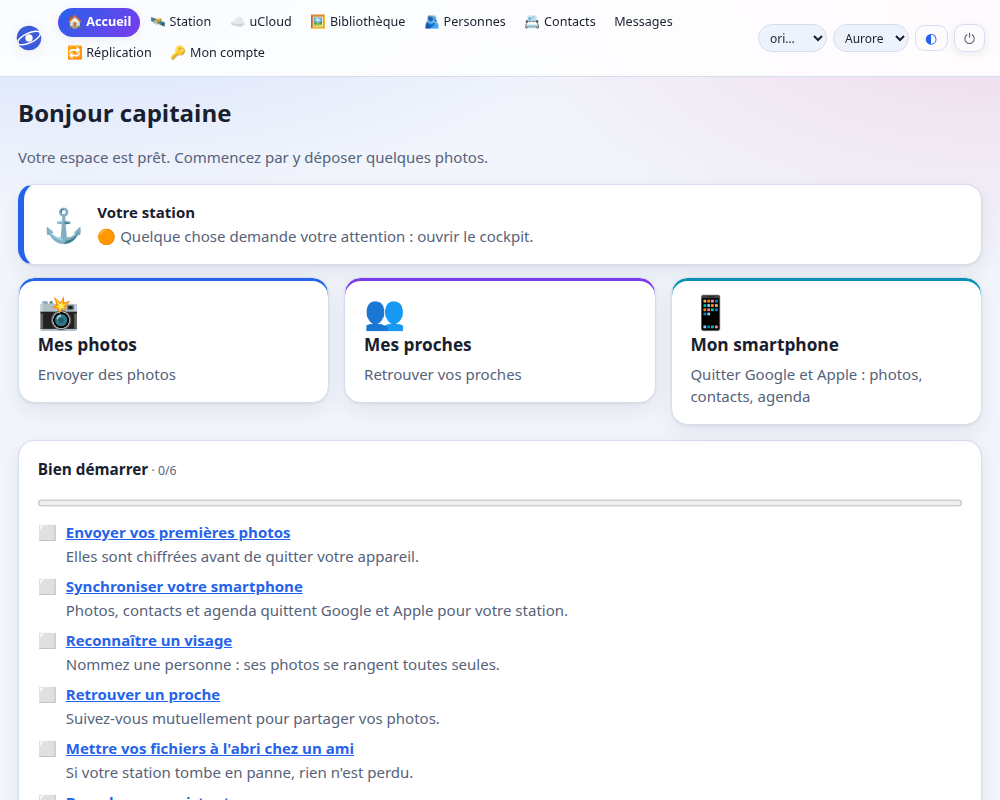
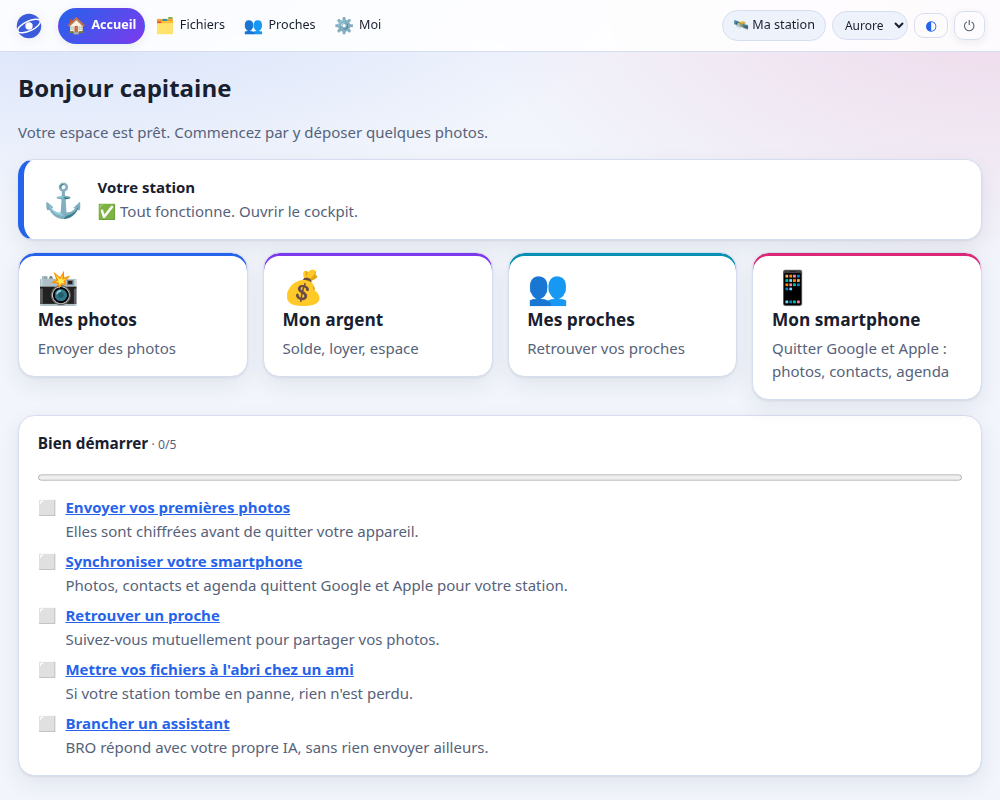
guide

diff --git a/docs/guide.html b/docs/guide.html
@@ -683,7 +683,7 @@ curl http://127.0.0.1:8090/health
 <li>L'<strong>Accueil</strong> vous propose d'envoyer vos premières photos, de <strong>synchroniser votre smartphone</strong> (photos, contacts, agenda : on quitte Google et Apple), de reconnaître un visage, de retrouver un proche, de mettre vos fichiers à l'abri chez un ami. Les étapes se cochent toutes seules ; la liste disparaît quand tout est fait. Une alerte n'apparaît que si votre espace dépasse 90 %.</li>
 <li><strong>Moi › Mon argent</strong> montre votre solde en Ẑen, la durée que couvre ce solde, votre espace utilisé, vos dépenses des 28 jours (le loyer) et vos parts de matériel (ce que vous possédez, avec leur amortissement).</li>
 </ol>
-<figure><img src="img/ui-accueil.png" alt="L'Accueil d'un membre : trois gestes (photos, proches, assistant ou smartphone) et la liste « Bien démarrer »." loading="lazy" decoding="async"><figcaption>L'Accueil d'un membre : trois gestes (photos, proches, assistant ou smartphone) et la liste « Bien démarrer ».</figcaption></figure>
+<figure><img src="img/ui-accueil.png" alt="L'Accueil d'un membre : quatre gestes (photos, argent, proches, smartphone) et la liste « Bien démarrer »." loading="lazy" decoding="async"><figcaption>L'Accueil d'un membre : quatre gestes (photos, argent, proches, smartphone) et la liste « Bien démarrer ».</figcaption></figure>
 <p>Sur un téléphone, installez la page comme application (menu du navigateur : <em>Ajouter à l'écran d'accueil</em>).</p>
 <p><strong>Style de l'interface.</strong> Dans l'en-tête, le sélecteur propose trois styles : <strong>Aurore</strong> (par défaut : dégradés, icônes, liseré coloré sur les cartes), <strong>Sobre</strong> (sans décor) et <strong>Kraft</strong> (papier chaud, inspiré des pochettes de FaceCloud). Le bouton voisin (◐ ☀ ☾) choisit le mode : automatique (celui de l'appareil), clair ou sombre. Ces choix restent sur l'appareil et ne sont envoyés nulle part.</p>
 </div>

diff --git a/docs/GUIDE.md b/docs/GUIDE.md
@@ -414,7 +414,7 @@ Le même jeton sert de mot de passe pour monter votre cloud en WebDAV (Finder, E
 3. L'**Accueil** vous propose d'envoyer vos premières photos, de **synchroniser votre smartphone** (photos, contacts, agenda : on quitte Google et Apple), de reconnaître un visage, de retrouver un proche, de mettre vos fichiers à l'abri chez un ami. Les étapes se cochent toutes seules ; la liste disparaît quand tout est fait. Une alerte n'apparaît que si votre espace dépasse 90 %.
 4. **Moi › Mon argent** montre votre solde en Ẑen, la durée que couvre ce solde, votre espace utilisé, vos dépenses des 28 jours (le loyer) et vos parts de matériel (ce que vous possédez, avec leur amortissement).
 
-![L'Accueil d'un membre : trois gestes (photos, proches, assistant ou smartphone) et la liste « Bien démarrer ».](img/ui-accueil.png)
+![L'Accueil d'un membre : quatre gestes (photos, argent, proches, smartphone) et la liste « Bien démarrer ».](img/ui-accueil.png)
 
 Sur un téléphone, installez la page comme application (menu du navigateur : *Ajouter à l'écran d'accueil*).
 
